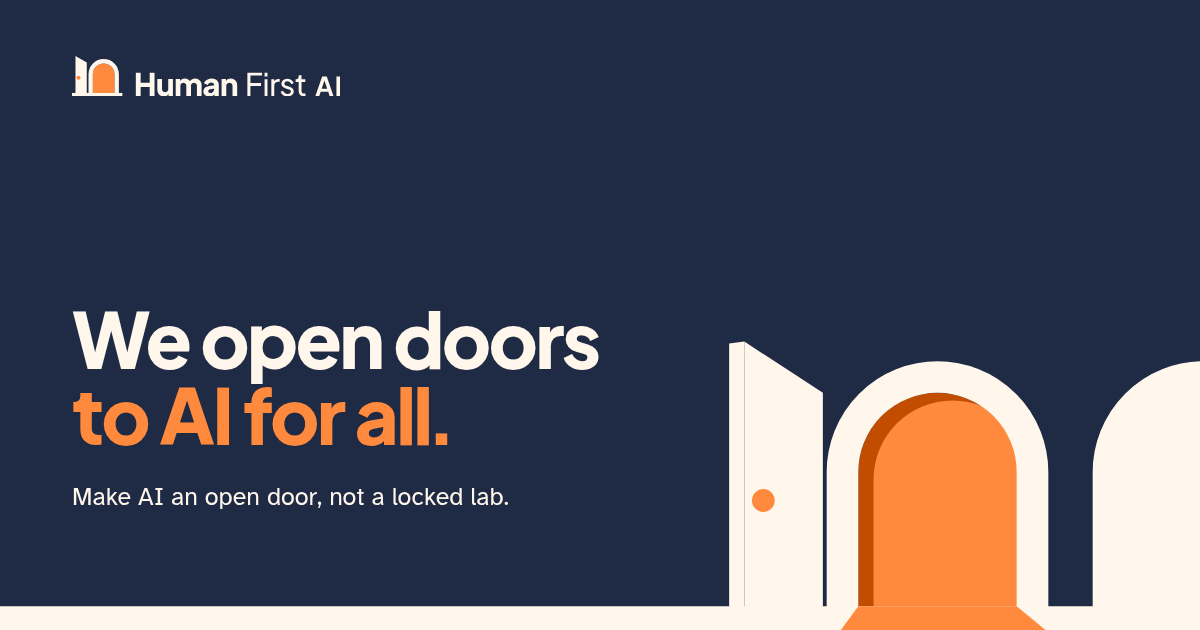
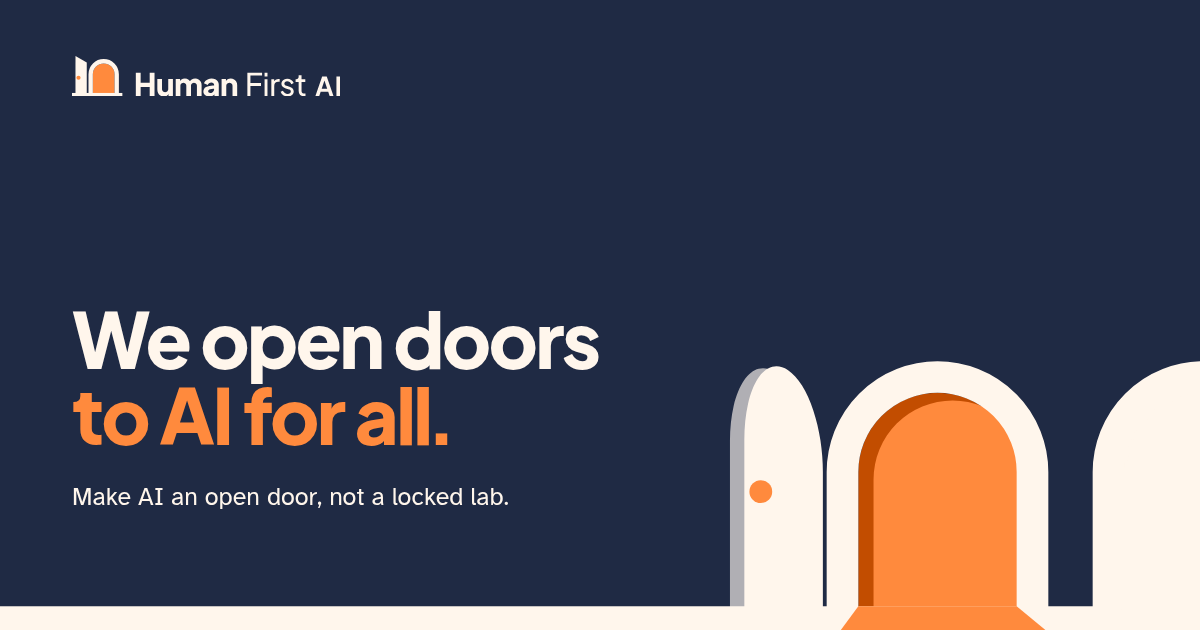
Door: the open leaf is the arched door, and the team gets its LinkedIn links
The shut door is arched, but the open leaf was the mark's flat-topped
panel, so the door changed shape as it opened. The leaf is now the same
arched door swung 66 degrees about its hinge and drawn in perspective,
with its thickness shaded a step toward the surface it stands on. The
edge was never shaded before: `.door__leaf path` out-specified
`.door__edge`.

The share card is redrawn to match. The logo files keep the brand mark
as it is.

Team: full names for Marie, Barbara and Giovanni, and a LinkedIn link
for each of the five. The "Also in the team" line links each name.

Changed region(s): [[0.5858, 0.5429, 0.7092, 0.9651]]

diff --git a/src/content/team/andres.md b/src/content/team/andres.md
@@ -4,6 +4,7 @@ role: Writing and workshops
 location: Barcelona
 photo: /team/andres.jpg
 photoAlt: Andrés, smiling, in a portrait photo.
+link: https://www.linkedin.com/in/andres-sepulveda-morales
 order: 1
 ---
 

diff --git a/src/content/team/helena.md b/src/content/team/helena.md
@@ -3,6 +3,7 @@ name: Helena Carre
 role: Writing
 photo: /team/helena.jpg
 photoAlt: Helena, in a portrait photo.
+link: https://www.linkedin.com/in/helena-c-2880951/
 order: 2
 ---
 

diff --git a/src/content/team/giovanni.md b/src/content/team/giovanni.md
@@ -1,4 +1,5 @@
 ---
-name: Giovanni
+name: Giovanni Juliao
+link: https://www.linkedin.com/in/giovanni-juliao/
 order: 5
 ---

diff --git a/src/content/team/marie.md b/src/content/team/marie.md
@@ -1,4 +1,5 @@
 ---
-name: Marie
+name: Marie Girschewski
+link: https://www.linkedin.com/in/mariegirschewski/
 order: 3
 ---

diff --git a/src/content/team/barbara.md b/src/content/team/barbara.md
@@ -1,4 +1,5 @@
 ---
-name: Barbara
+name: Barbara Cador
+link: https://www.linkedin.com/in/barbaracador/
 order: 4
 ---
